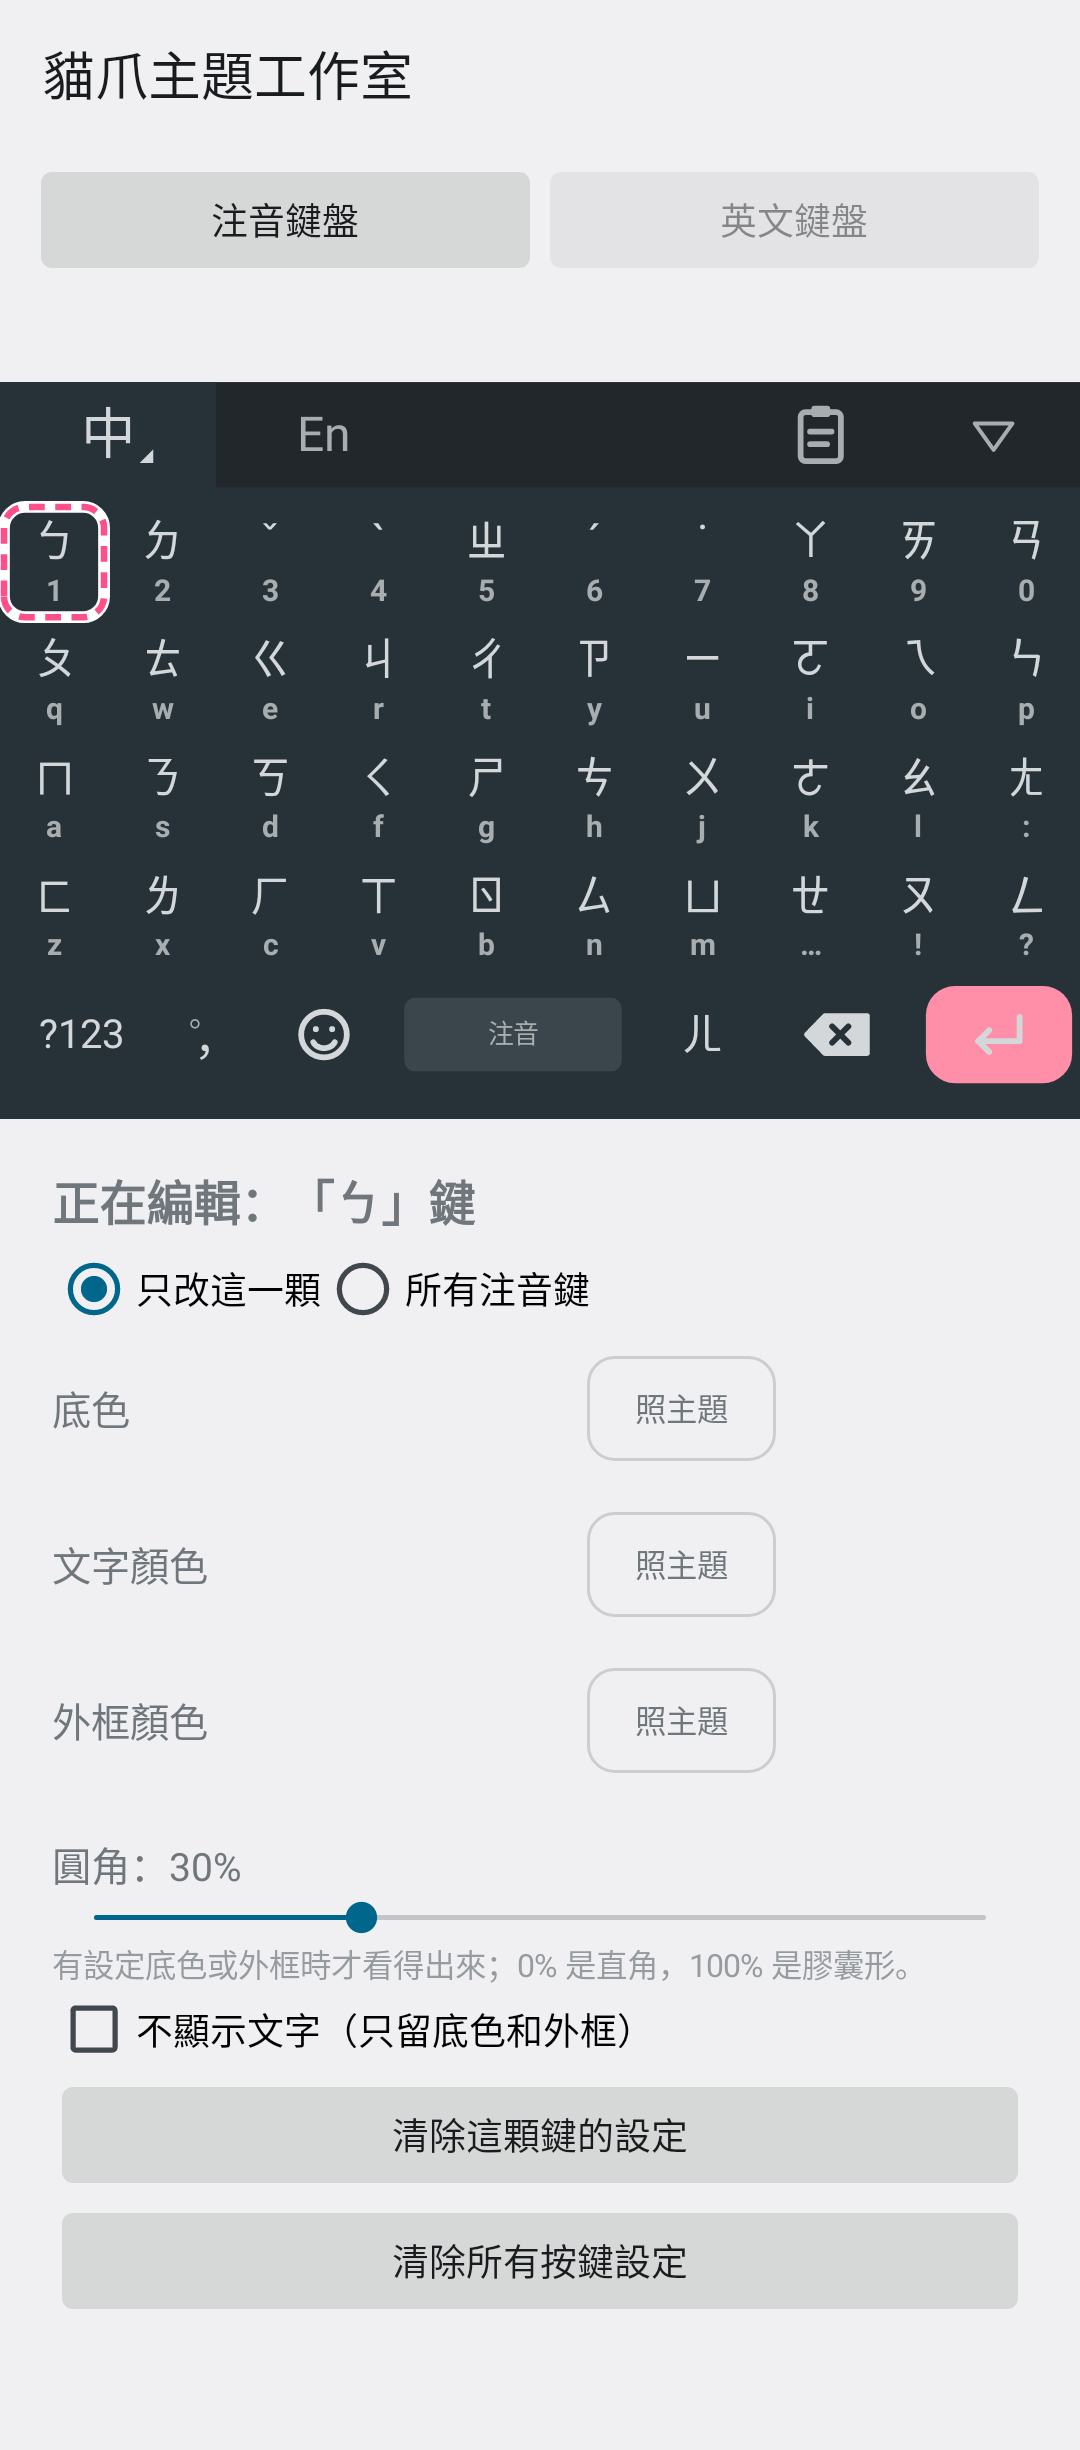
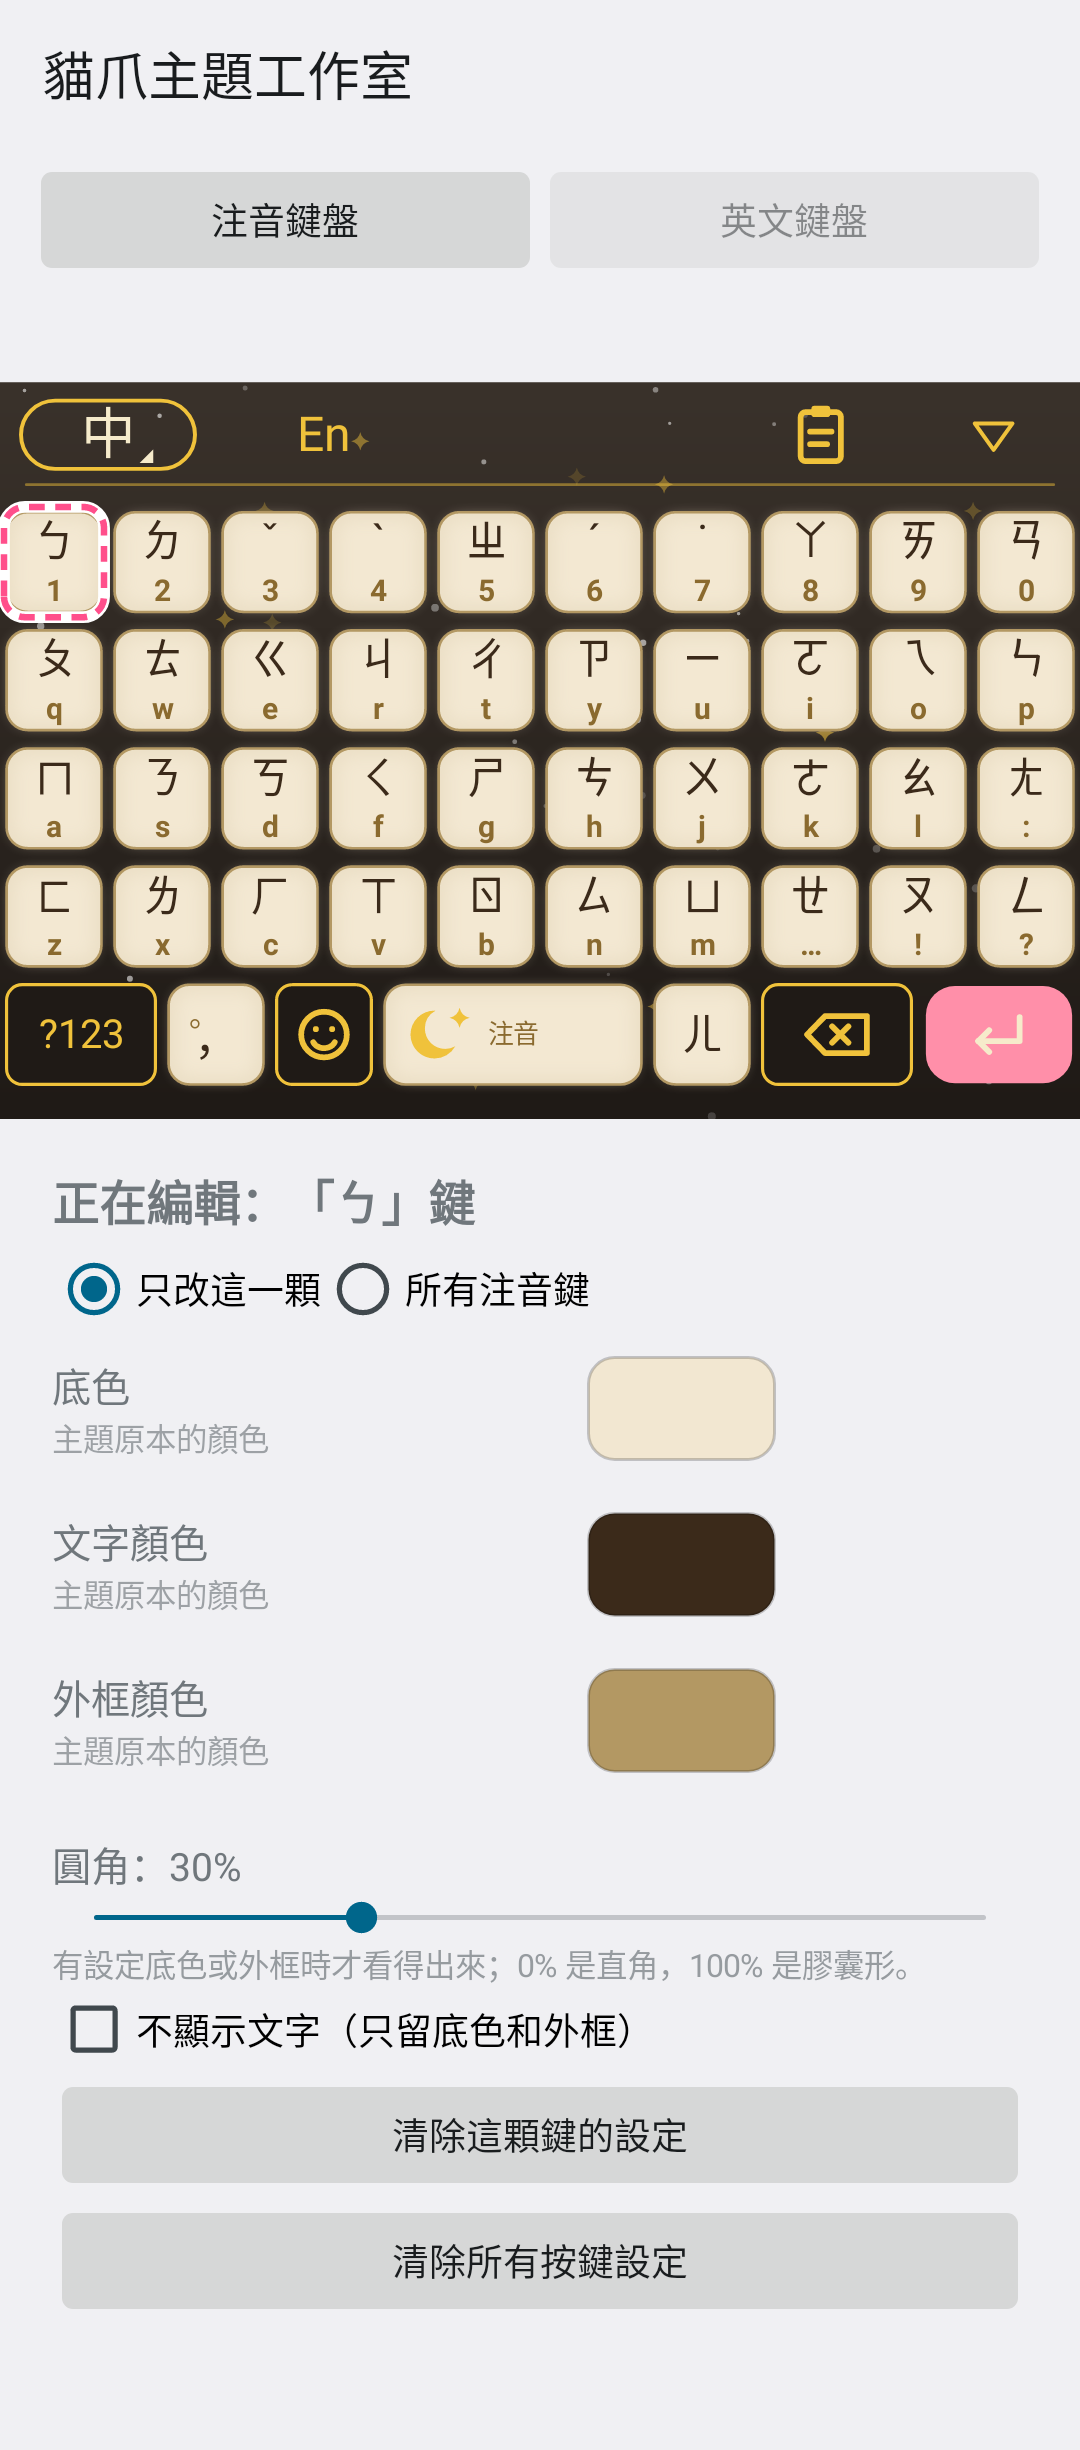
主題工作室：色塊直接顯示按鍵現在的顏色，選色器從現在的顏色開始
- 拿掉容易誤會的「照主題」，改成色塊＋小字「主題原本的顏色／已自訂」
- 直接量畫面上那顆鍵的底色、字色、外框色（各種主題都準）
- 「還原」改成「改回原色」

Claude-Session: https://claude.ai/code/session_01YEi7AGz9LaiD389faVzAY6

diff --git a/app/src/main/java/io/github/yolanda1027/catpaw/CatKeyboardView.kt b/app/src/main/java/io/github/yolanda1027/catpaw/CatKeyboardView.kt
@@ -286,11 +286,11 @@ class CatKeyboardView(
     }
 
     /** 畫一顆鍵：主題原本的樣子，再套上功能鍵貼圖、主題工作室的單鍵樣式 */
-    private fun drawOneKey(c: Canvas, kr: KeyRect) {
+    private fun drawOneKey(c: Canvas, kr: KeyRect, content: Boolean = true) {
         val isPressed = kr === pressed
         val sticker = StickerSlot.of(kr.key)?.let { stickers[it] }
         val st = keyStyles.resolve(kr.key)
-        val split = sticker != null || (st != null && (st.bg != null || st.text != null || st.hideLabel == true))
+        val split = !content || sticker != null || (st != null && (st.bg != null || st.text != null || st.hideLabel == true))
         if (!split) {
             theme.drawKey(c, kr.rect, kr.key, labelFor(kr.key), isPressed, shiftState, rowH)
         } else {
@@ -299,6 +299,7 @@ class CatKeyboardView(
             else theme.drawKey(c, kr.rect, kr.key.copy(label = "", icon = null, sub = null), "", isPressed, shiftState, rowH)
             // 內容：貼圖、或用自訂顏色畫字
             when {
+                !content -> Unit
                 sticker != null -> Stickers.draw(c, sticker, kr.rect, isPressed, 5 * dp)
                 st?.hideLabel == true -> Unit
                 else -> {
@@ -312,6 +313,76 @@ class CatKeyboardView(
     }
 
     // ---------- 主題工作室：點按鍵來編輯 ----------
+
+    /** 這顆鍵「現在看起來」的顏色（主題工作室打開選色器時當起點） */
+    class KeyColors(val bg: Int, val text: Int, val border: Int)
+
+    /**
+     * 直接把這顆鍵畫在一張小圖上量顏色，所以不管哪個主題（羊皮紙、肉球…）量到的都是畫面上真正的顏色：
+     * - 底色：按鍵中間最常出現的顏色（先畫一次不含字的）
+     * - 文字：有字和沒字兩張圖差最多的那一點
+     * - 外框：按鍵邊緣的顏色
+     */
+    fun sampleColors(key: Key): KeyColors? {
+        val kr = keyRects.firstOrNull { it.key == key } ?: return null
+        val r = kr.rect
+        val w = r.width().toInt()
+        val h = r.height().toInt()
+        if (w <= 0 || h <= 0) return null
+        theme.fonts = fontSet
+        val base = theme.bg or (0xFF shl 24)
+        fun render(content: Boolean): android.graphics.Bitmap {
+            val bmp = android.graphics.Bitmap.createBitmap(w, h, android.graphics.Bitmap.Config.ARGB_8888)
+            val c = Canvas(bmp)
+            c.drawColor(base)
+            c.translate(-r.left, -r.top)
+            drawOneKey(c, kr, content)
+            return bmp
+        }
+        val body = render(false)
+        val full = render(true)
+        fun opaque(c: Int) = c or (0xFF shl 24)
+
+        // 底色：中間區域分成小格子統計，取最多的那一組平均
+        val count = HashMap<Int, IntArray>() // 格子 → [數量, r 總和, g 總和, b 總和]
+        for (y in (h * 0.2f).toInt() until (h * 0.8f).toInt()) for (x in (w * 0.2f).toInt() until (w * 0.8f).toInt()) {
+            val p = body.getPixel(x, y)
+            val k = (android.graphics.Color.red(p) shr 4 shl 8) or (android.graphics.Color.green(p) shr 4 shl 4) or (android.graphics.Color.blue(p) shr 4)
+            val a = count.getOrPut(k) { IntArray(4) }
+            a[0]++; a[1] += android.graphics.Color.red(p); a[2] += android.graphics.Color.green(p); a[3] += android.graphics.Color.blue(p)
+        }
+        val top = count.values.maxByOrNull { it[0] }
+        val bg = if (top == null) base else android.graphics.Color.rgb(top[1] / top[0], top[2] / top[0], top[3] / top[0])
+
+        // 文字：差最多的那一點（字的正中間）
+        var best = -1
+        var text = theme.text
+        for (y in 0 until h) for (x in 0 until w) {
+            val a = full.getPixel(x, y)
+            val b = body.getPixel(x, y)
+            val d = kotlin.math.abs(android.graphics.Color.red(a) - android.graphics.Color.red(b)) +
+                kotlin.math.abs(android.graphics.Color.green(a) - android.graphics.Color.green(b)) +
+                kotlin.math.abs(android.graphics.Color.blue(a) - android.graphics.Color.blue(b))
+            if (d > best) { best = d; text = a }
+        }
+        if (best < 30) text = theme.text // 這顆沒有字（或字被藏起來）
+
+        // 外框：從按鍵左邊中間往內找，第一個跟鍵盤背景不一樣的顏色（按鍵最外圈）
+        fun dist(a: Int, b: Int) = kotlin.math.abs(android.graphics.Color.red(a) - android.graphics.Color.red(b)) +
+            kotlin.math.abs(android.graphics.Color.green(a) - android.graphics.Color.green(b)) +
+            kotlin.math.abs(android.graphics.Color.blue(a) - android.graphics.Color.blue(b))
+        var border = text // 沒有底框的主題（像經典版）：外框就先用字的顏色
+        for (x in 0 until w / 2) {
+            if (dist(body.getPixel(x, h / 2), base) > 60) {
+                // 往內 1 點，避開邊緣半透明的那一圈
+                border = body.getPixel(minOf(x + 1, w - 1), h / 2)
+                break
+            }
+        }
+        body.recycle()
+        full.recycle()
+        return KeyColors(opaque(bg), opaque(text), opaque(border))
+    }
 
     /** 有設定的話，鍵盤變成「編輯模式」：點按鍵不會打字，而是選到那顆鍵 */
     var editPicker: ((Key) -> Unit)? = null

diff --git a/app/src/main/java/io/github/yolanda1027/catpaw/StudioActivity.kt b/app/src/main/java/io/github/yolanda1027/catpaw/StudioActivity.kt
@@ -148,10 +148,11 @@ class StudioActivity : Activity() {
         }
 
         val cur = styles.map[currentId()] ?: KeyStyle()
-        val theme = Themes.byName(prefs.theme, dp, prefs)
-        colorRow("底色", cur.bg, theme.bg.let { if (it == Color.TRANSPARENT) Color.WHITE else theme.pressedOf(it) }) { v -> update({ it.copy(bg = v) }) }
-        colorRow("文字顏色", cur.text, theme.text) { v -> update({ it.copy(text = v) }) }
-        colorRow("外框顏色", cur.border, Color.parseColor("#FF8FA9")) { v -> update({ it.copy(border = v) }) }
+        // 沒自訂的顏色：用這顆鍵現在畫面上的顏色
+        val now = kv.sampleColors(key)
+        colorRow("底色", cur.bg, now?.bg ?: Color.WHITE) { v -> update({ it.copy(bg = v) }) }
+        colorRow("文字顏色", cur.text, now?.text ?: Color.BLACK) { v -> update({ it.copy(text = v) }) }
+        colorRow("外框顏色", cur.border, now?.border ?: Color.GRAY) { v -> update({ it.copy(border = v) }) }
 
         // 圓角
         val radius = ((cur.radius ?: 0.3f) * 100).toInt()
@@ -203,28 +204,37 @@ class StudioActivity : Activity() {
         }
     }
 
-    /** 一列：名稱、色塊（點了選顏色）、還原 */
-    private fun colorRow(label: String, value: Int?, suggest: Int, onPick: (Int?) -> Unit) {
+    /**
+     * 一列：名稱（下面小字寫是不是自訂的）、色塊（顯示現在的顏色，點了選顏色）、還原
+     * @param now 沒自訂時，這顆鍵現在畫面上的顏色
+     */
+    private fun colorRow(label: String, value: Int?, now: Int, onPick: (Int?) -> Unit) {
         val row = LinearLayout(this).apply {
             orientation = LinearLayout.HORIZONTAL
             gravity = Gravity.CENTER_VERTICAL
             setPadding(0, px(6f), 0, px(6f))
         }
-        row.addView(TextView(this).apply { text = label; textSize = 15f }, LinearLayout.LayoutParams(0, LinearLayout.LayoutParams.WRAP_CONTENT, 1f))
-        val chip = TextView(this).apply {
-            gravity = Gravity.CENTER
+        val names = LinearLayout(this).apply { orientation = LinearLayout.VERTICAL }
+        names.addView(TextView(this).apply { text = label; textSize = 15f })
+        names.addView(TextView(this).apply {
+            text = if (value == null) "主題原本的顏色" else "已自訂"
             textSize = 12f
+            alpha = 0.65f
+        })
+        row.addView(names, LinearLayout.LayoutParams(0, LinearLayout.LayoutParams.WRAP_CONTENT, 1f))
+        val shown = value ?: now
+        val chip = View(this).apply {
             background = GradientDrawable().apply {
                 cornerRadius = 10 * dp
-                setColor(value ?: Color.TRANSPARENT)
-                setStroke(px(1.5f), if (value == null) 0x55888888 else 0x33000000)
+                setColor(shown)
+                setStroke(px(1.5f), 0x33000000)
             }
-            text = if (value == null) "照主題" else ""
-            setOnClickListener { ColorDialog.show(this@StudioActivity, label, value ?: suggest) { onPick(it) } }
+            contentDescription = "$label：" + String.format("#%06X", 0xFFFFFF and shown)
+            setOnClickListener { ColorDialog.show(this@StudioActivity, label, shown) { onPick(it) } }
         }
         row.addView(chip, LinearLayout.LayoutParams(px(72f), px(40f)))
         val reset = Button(this).apply {
-            text = "還原"
+            text = "改回原色"
             isAllCaps = false
             visibility = if (value == null) View.INVISIBLE else View.VISIBLE
             setOnClickListener { onPick(null) }

diff --git a/app/src/test/java/io/github/yolanda1027/catpaw/KeyStylesTest.kt b/app/src/test/java/io/github/yolanda1027/catpaw/KeyStylesTest.kt
@@ -83,6 +83,24 @@ class KeyStylesTest {
         render(kv, "keystyles-butter")
     }
 
+    @Test fun samplesCurrentColors() {
+        val p = Prefs(ctx)
+        p.theme = "classic"
+        val kv = CatKeyboardView(ctx, p, Haptics(ctx))
+        kv.measure(View.MeasureSpec.makeMeasureSpec(1080, View.MeasureSpec.EXACTLY), View.MeasureSpec.UNSPECIFIED)
+        kv.layout(0, 0, kv.measuredWidth, kv.measuredHeight)
+        val c = kv.sampleColors(b)!!
+        assertEquals(Color.parseColor("#273238"), c.bg)
+        assertEquals(Color.parseColor("#D3D7DA"), c.text)
+        // 自訂過的顏色，量到的就是自訂的顏色
+        KeyStyles.save(p, KeyStyles.EMPTY.with("@zhuyin", KeyStyle(bg = 0xFFFFE08A.toInt(), text = 0xFF6B4F2A.toInt())))
+        kv.reloadPrefs()
+        kv.layout(0, 0, kv.measuredWidth, kv.measuredHeight)
+        val c2 = kv.sampleColors(b)!!
+        assertEquals(0xFFFFE08A.toInt(), c2.bg)
+        assertEquals(0xFF6B4F2A.toInt(), c2.text)
+    }
+
     @Test fun studioScreen() {
         val p = Prefs(ctx)
         KeyStyles.save(p, KeyStyles.EMPTY.with("enter", KeyStyle(bg = 0xFFFF8FA9.toInt(), radius = 0.6f)))
@@ -94,6 +112,11 @@ class KeyStylesTest {
         render(a.window.decorView, "studio-enter")
         kv.editPicker!!.invoke(b)
         render(a.window.decorView, "studio-zhuyin")
+        // 魔法學院主題：選色器的起點要是羊皮紙的顏色
+        Prefs(ctx).theme = "magic_yellow"
+        kv.reloadPrefs()
+        kv.editPicker!!.invoke(b)
+        render(a.window.decorView, "studio-magic")
         // 桌面圖示
         val d = ctx.getDrawable(R.drawable.ic_studio_fg)!!
         val bmp = Bitmap.createBitmap(432, 432, Bitmap.Config.ARGB_8888)
